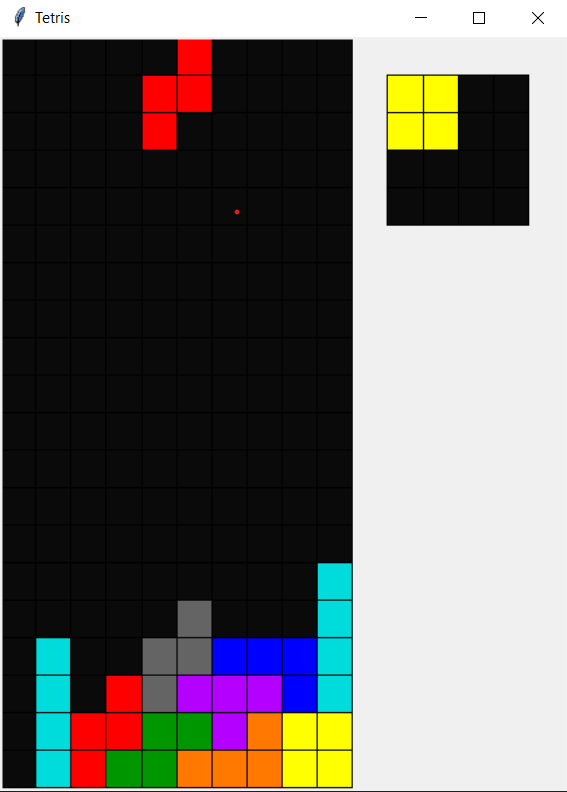
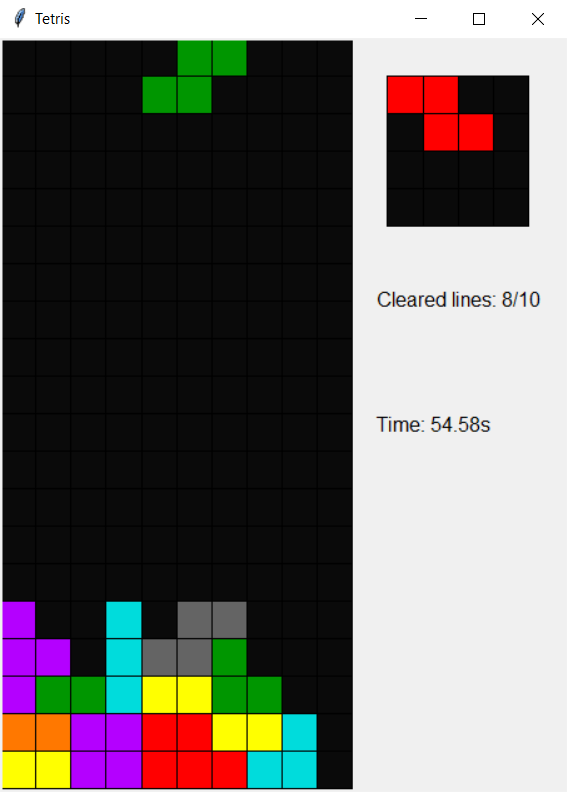
docs

diff --git a/dokumentaatio/kayttoohje.md b/dokumentaatio/kayttoohje.md
@@ -1,10 +1,5 @@
 # Käyttöohje
 
-## Asetukset
-
-Asetukset sijaitsevat tiedostossa `config\settings.ini`.
-Eri asetusten selitykset [täällä](https://github.com/ossi-hy/ot-harjoitustyo/blob/master/config/README.md).
-
 ## Käynnistys
 
 Asenna riippuvuudet
@@ -19,13 +14,13 @@ $ poetry run invoke start
 
 ## Aloitusruutu
 
-Aloitusruudusta voi aloittaa pelin, tai poistua pelistä. Asetusten muttaminen käyttöliittymän kautta on vielä työn alla.
+Aloitusruudusta voi aloittaa pelin, mennä asetuksiin tai poistua pelistä. Aloitusruutua navigoidaan klikkaamalla hiirellä. Poistua voi myös painamalla `esc` (toimii kaikkialla pelissä).
 
 ## Peliruutu
 
 ![Peliruutu](./images/Game.png)
 
-Peliruudussa peliä ohjataan asetuksissa määritellyillä näppäimillä. Takaisin aloitusruutun pääsee painamalla 'esc'. Tällä hetkellä pelattava pala näkyy ylälaidassa, ja sitä voi liikutella ja pyörittää. 
+Peliruudussa peliä ohjataan asetuksissa määritellyillä näppäimillä. Takaisin aloitusruutun pääsee painamalla `esc`. Tällä hetkellä pelattava pala näkyy ylälaidassa, ja sitä voi liikutella ja pyörittää. 
 
 Kun pala on haluamassa kohdassa, sen voi tiputtaa painamalla [drop]. Jos varjopala on päällä, näkyy tuleva tiputuskohta harmaana palana peliruudun alaosassa.
 
@@ -34,3 +29,15 @@ Oikealla ylhäällä erillisessä laatikossa näkyvä pala on niin sanottu *hold
 Kun pelilaudalle saa täyden rivin, se katoaa, ja jäljellä olevat palat tippuvat alaspäin. Pelin tarkoituksena on täyttää mahdollisimman monta riviä, mahdollisimman nopeasti.
 
 Pelin voi aloittaa nopeasti alusta painamalla [reset].
+
+## Asetukset
+
+![Settings](./images/Settings.png)
+Asetuksista voit vaihtaa pelissä käytettäviä kontrolleja. Kun haluat vaihtaa tiettyyn tapahtumaan käytettävän näppäimen, klikkaa hiirellä oikeassa listassa olevaa näppäintä. Tämän jälkeen painamalla haluttua uutta näppäintä peli vaihtaa ja tallentaa uuden näppäimen. Tetrominojen lopullisen tippumiskohdan näyttävän "varjon" voi poistaa tai lisätä painamalla tekstin "shadow" vieressä olevaa tekstiä `true`. Takaisin aloitusruutuun pääse painamalla `esc`,
+
+### Lisäasetukset
+
+> ⚠ Huom! Tämän tiedoston poistaminen tai väärä formatointi saattaa aiheuttaa ohjelman kaatumisen. Tässä tapauksessa on helpointa kopioida alkuperäinen asetustiedosto.
+
+Lisäasetukset sijaitsevat tiedostossa `config\settings.ini`.
+Eri asetusten selitykset [täällä](https://github.com/ossi-hy/ot-harjoitustyo/blob/master/config/README.md).

diff --git a/dokumentaatio/tuntikirjanpito.md b/dokumentaatio/tuntikirjanpito.md
@@ -1,6 +1,6 @@
 # Tuntikirjanpito
 
-Yhteensä: 16h
+Yhteensä: 36h
 
 | Päivä | Aika | Mitä tein |
 | :----:|:-----| :----------|
@@ -8,3 +8,4 @@ Yhteensä: 16h
 | 12.4. | 5h | Pelilogiikan kehitys, kontrollien lisääminen |
 | 26.4. | 4h | Aloitusvalikon lisäys, palan vaihdon lisäys |
 | 3.5. | 4h | Lisää testejä, docstringejä, ja näppäimistöä lukevan kirjaston vaihto |
+| 15.5 | 20h | Pelin päättyminen, testejä, dokumentaatiota ja asetusvalikko |

diff --git a/config/README.md b/config/README.md
@@ -4,6 +4,7 @@
 - DAS (int): automaattisen liikkumisen alkamisen viive millisekunneissa
 - ARR (int): automaattisen liikkumisen toiston viive millisekunneissa
 - shadow (bool): maassa näkyvä varjo, joka näyttää mihin pala putoaa
+- lines (int): tyhjennettävien rivien määrä pelin läpäisyksi
 
 ## Grafiikkasetukset
 - width (int): peli-ikkunan leveys

diff --git a/dokumentaatio/changelog.md b/dokumentaatio/changelog.md
@@ -24,3 +24,9 @@
 - Lisätty testien kattavuutta
 - Vaihdettu näppäimistön painalluksien lukemiseen tarkoittetu kirjasto sellaiseen, joka ei tarvitse admin oikeuksia
 - Pieniä tilojen vaihtoon liittyviä logiikkamuutoksia
+
+## Viikko 7
+- Lisätty pelin päättyminen
+- Lisätty täysien rivien laskeminen
+- Lisätty ajastin
+- Lisätty asetusvalikko
